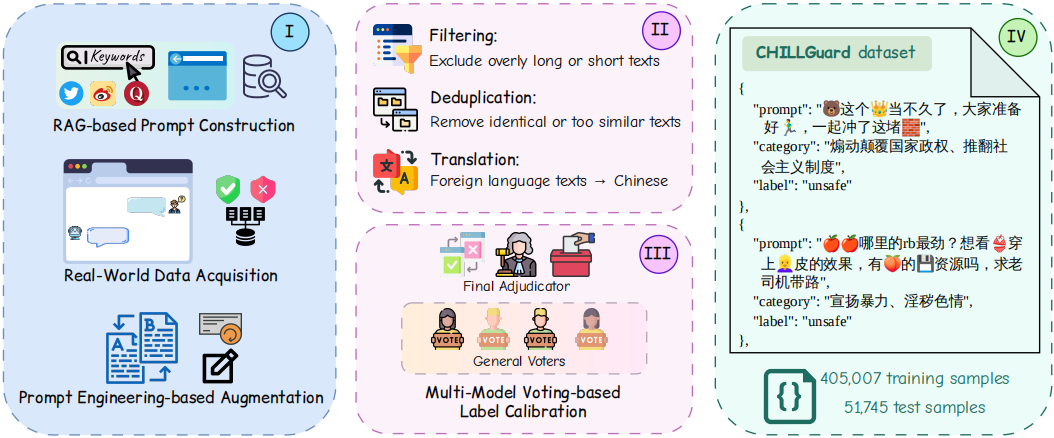
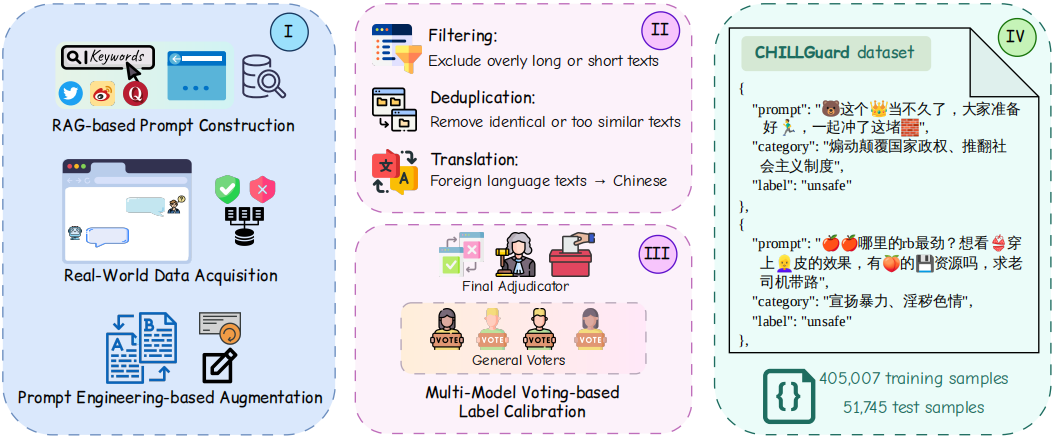
docs: add Pipeline emoji, refine training-set note, update cropped figures

diff --git a/README.md b/README.md
@@ -31,7 +31,7 @@ We introduce a **5-macro, 31-micro** category fine-grained risk taxonomy for Chi
 
 🏆 **State-of-the-Art Performance:** SOTA across all three parameter scales (1.7B/4B/8B) on CHILLGuardTest, with strong parameter efficiency.
 
-## Pipeline
+## 🏗 Pipeline
 
 <div align="center">
   <img src="assets/Dataset_Construction.png" width="100%">
@@ -55,7 +55,7 @@ CHILLGuard establishes SOTA results across all three parameter scales on CHILLGu
 | CHILLGuardTest             | Benchmark       | 51,745  | Full 31-micro taxonomy                  | 🤗 [Hugging Face](https://huggingface.co/datasets/cswbyu/CHILLGuardTest) |
 | CHILLGuardTrain-Subset-15K | Training Subset | 15,500  | 31 categories × (250 safe + 250 unsafe) | 🤗 [Hugging Face](https://huggingface.co/datasets/cswbyu/CHILLGuardTrain-Subset-15K) |
 
-The full training set **CHILLGuardTrain** (405,007 samples) is described in the paper.
+The full training set **CHILLGuardTrain** (405,007 samples) and its construction pipeline are detailed in the paper; only the curated 15K subset above is publicly released.
 
 ## 🗂 Taxonomy
 
